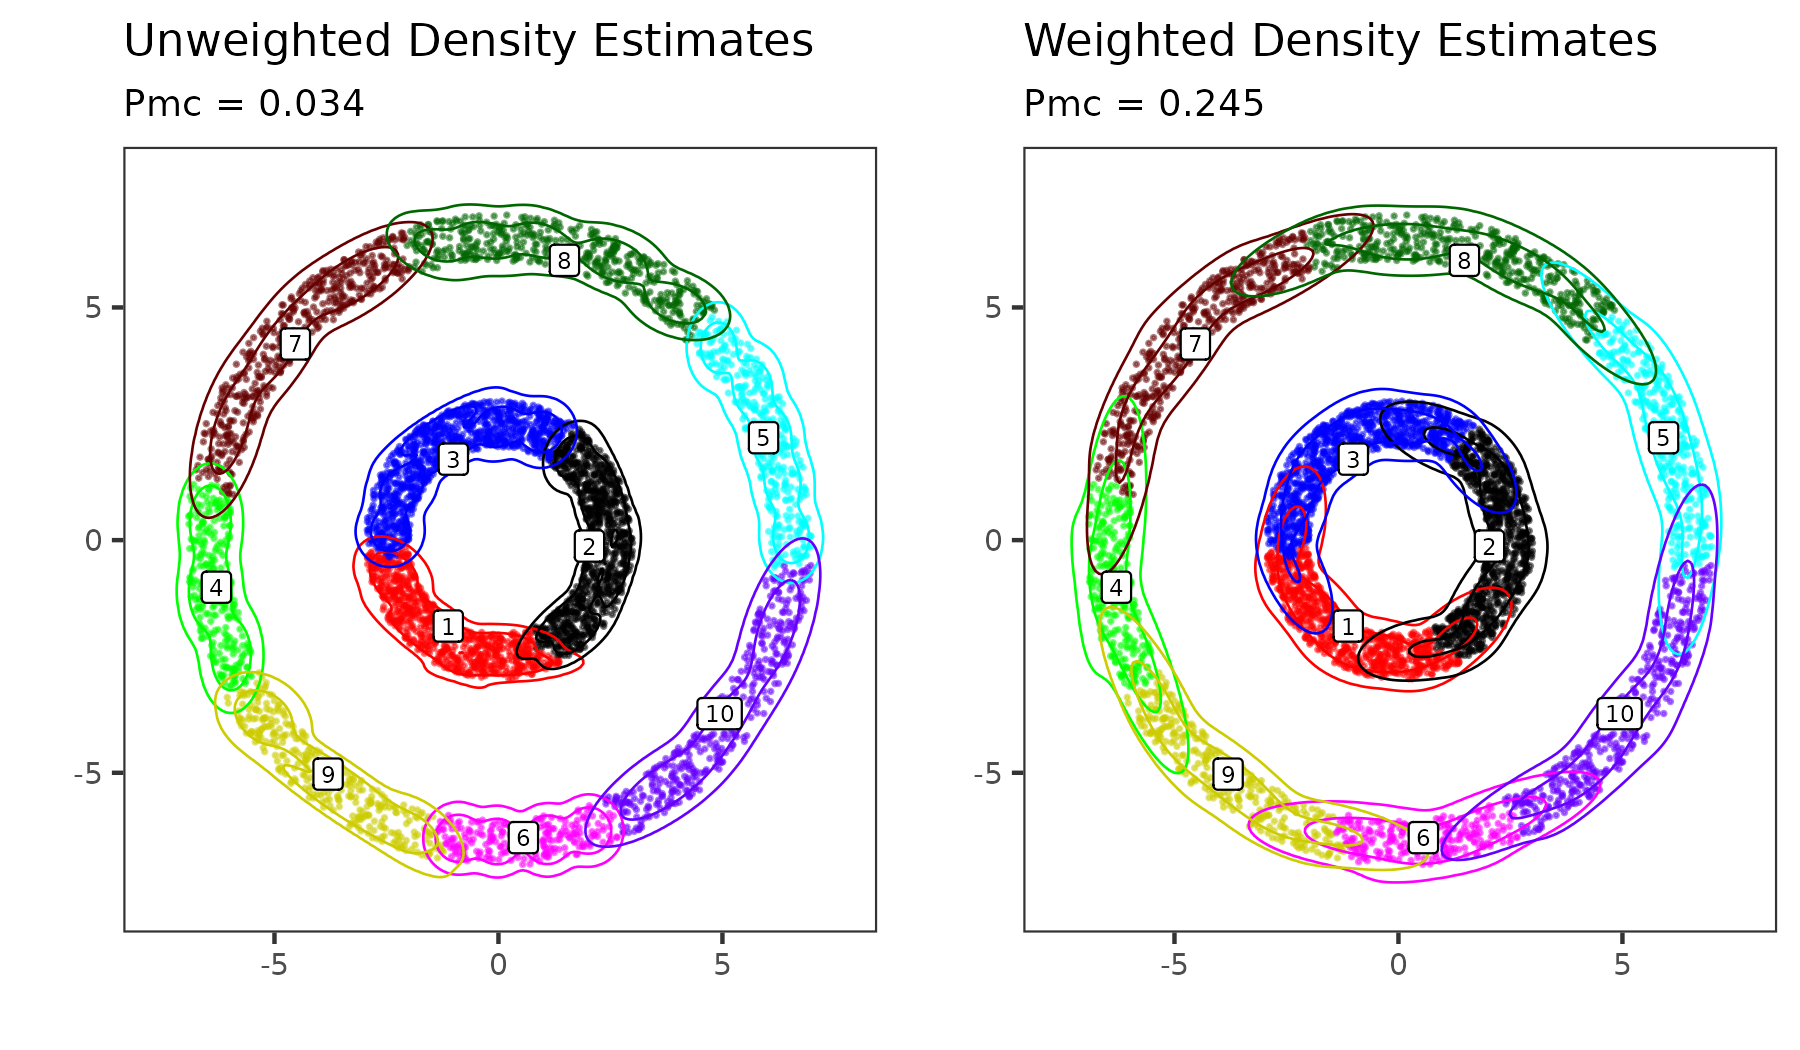
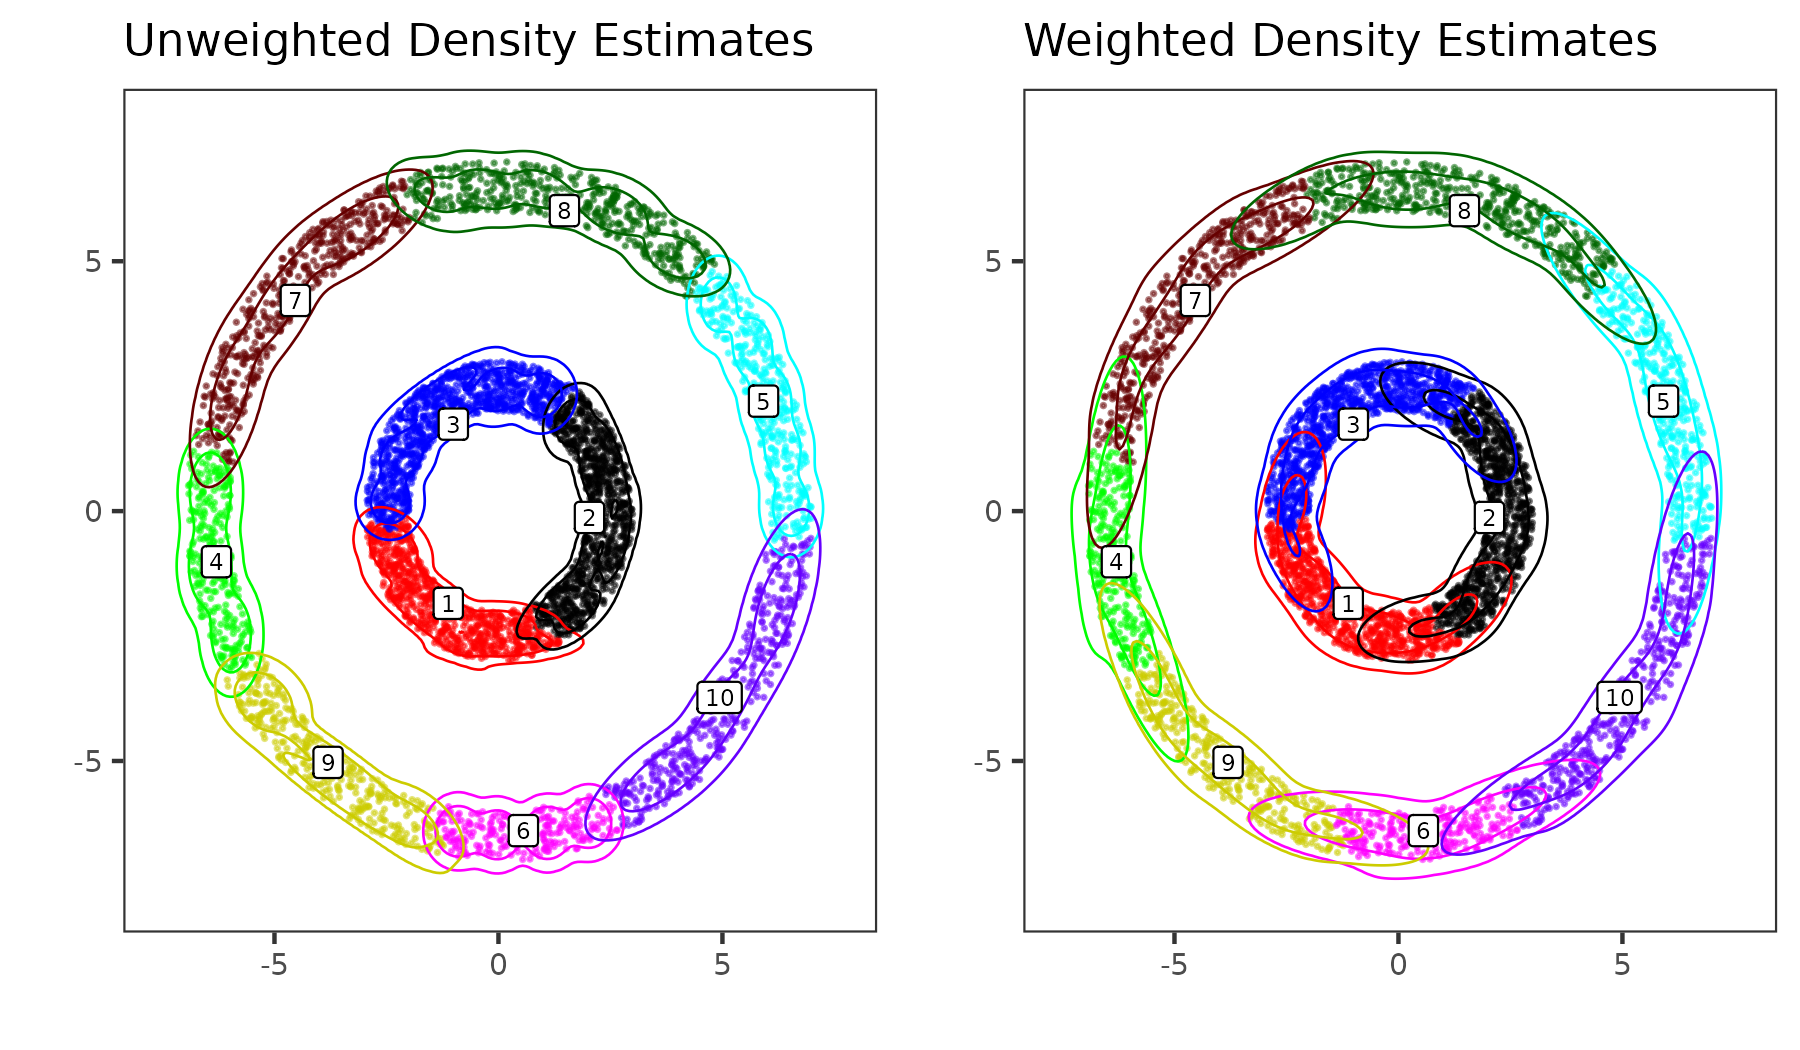
Add plots for weighted density + add image class

diff --git a/docs/_layouts/default.html b/docs/_layouts/default.html
@@ -2,6 +2,15 @@
 <html lang="{{ site.lang | default: "en-US" }}">
   <head>
 
+    <style>
+      .figure {
+        display: block;
+        margin-left: auto;
+        margin-right: auto;
+        width: 50%;
+      }
+    </style>
+
     {% if site.google_analytics %}
       <script async src="https://www.googletagmanager.com/gtag/js?id={{ site.google_analytics }}"></script>
       <script>
@@ -13,7 +22,7 @@
     {% endif %}
     <meta charset="UTF-8">
 
-{% seo %}
+    {% seo %}
     <meta name="viewport" content="width=device-width, initial-scale=1">
     <meta name="theme-color" content="#157878">
     <meta name="apple-mobile-web-app-status-bar-style" content="black-translucent">

diff --git a/docs/weighted_density_estimation.md b/docs/weighted_density_estimation.md
@@ -54,15 +54,15 @@ params_f <- constructPmcParamsWeightedPartition(fcl_clust, dat, weights=fcl_weig
 In the plots below, the dashed lines correspond to the underlying cluster densities, while the solid red and blue lines are the estimated densities from each procedure. Looking to the unweighted density scheme, it tends to under-estimate the density in the tails of the distribution which understates the overlap between the clusters. The default weighting scheme tends to over-estimate the weights in the tails of the distributions. Finally, the density based on the $c$-means weights very closely matches the original clustering solution.
 
 <center>
-<img src="figures/weighted_density/gauss.png" alt="Alt Text" width="600">
+<img src="figures/weighted_density/gauss.png" alt="Alt Text" class="figure">
 </center>
 
 
 In terms of the estimated $P_{\rm mc}$ between the clusters, in this case the unweighted scheme under-estimates $P_{\rm mc} = 0.11$, the default weighting scheme somewhat over-estimates $P_{\rm mc} = 0.3$, while the $c$-means weights get an accurate estimate of $P_{\rm mc} = 0.23$. 
 
 ```
-     Truth   Unweighted   Weighted   Cmeans 
-     0.225        0.109      0.300    0.226 
+Truth   Unweighted   Weighted   Cmeans 
+0.225        0.109      0.300    0.226 
 ```
 
 ## Double Rings Example
@@ -79,17 +79,15 @@ hcl_labels <- cutree(hcl, 10)
 The data and partition is visualized below
 
 <center>
-<img src="figures/weighted_density/data_plot.png" alt="Alt Text" width="600">
+<img src="figures/weighted_density/data_plot.png" alt="Alt Text" class="figure" >
 </center>
 
-
-Based on this partition, we compare the results for estimating the cluster-specific densities via GMM in two ways
 
 
 
 Below are the estimated cluster-specific densities, as well as the estimated $P_{\rm mc}$ values for each set of density estimates. We see that the value of $P_{mc}$ is significantly higher for the weighted density estimate that it is for the unweighted density.
 
 <center>
-<img src="figures/weighted_density/density_plot.png" alt="Alt Text" width="600">
+<img src="figures/weighted_density/density_plot.png" alt="Alt Text" class="figure" >
 </center>
 

diff --git a/docs/half_moons.md b/docs/half_moons.md
@@ -73,7 +73,7 @@ kcl_params <- constructPmcParamsWeightedPartition(kcl_part, data=moons)
 ```
 
 <center>
-<img src="figures/moons/moons_data.png" alt="Alt Text" width="600" height="300">
+<img class="figure" src="figures/moons/moons_data.png" alt="Alt Text">
 </center>
 
 
@@ -116,5 +116,5 @@ kcl_htmp <- plotPHMMatrix(kcl_phm,
 ```
 
 <center>
-<img src="figures/moons/moons_phm.png" alt="Alt Text" width="600" height="300">
+<img src="figures/moons/moons_phm.png" alt="Alt Text" class="figure">
 </center>
